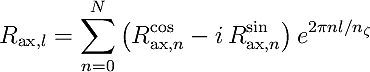
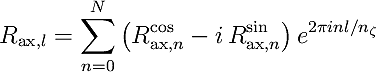
forgot imagninary unit in dft formula

diff --git a/eqn/magn_axis_dft.tex b/eqn/magn_axis_dft.tex
@@ -16,7 +16,7 @@
    R_{\mathrm{ax}, l}
  = \sum\limits_{n=0}^{N}
      \left( R_{\mathrm{ax}, n}^\mathrm{cos} - i \, R_{\mathrm{ax}, n}^\mathrm{sin} \right)
-     e^{2 \pi n l / n_\zeta}
+     e^{2 \pi i n l / n_\zeta}
 \end{equation*}
 \end{document}
 
